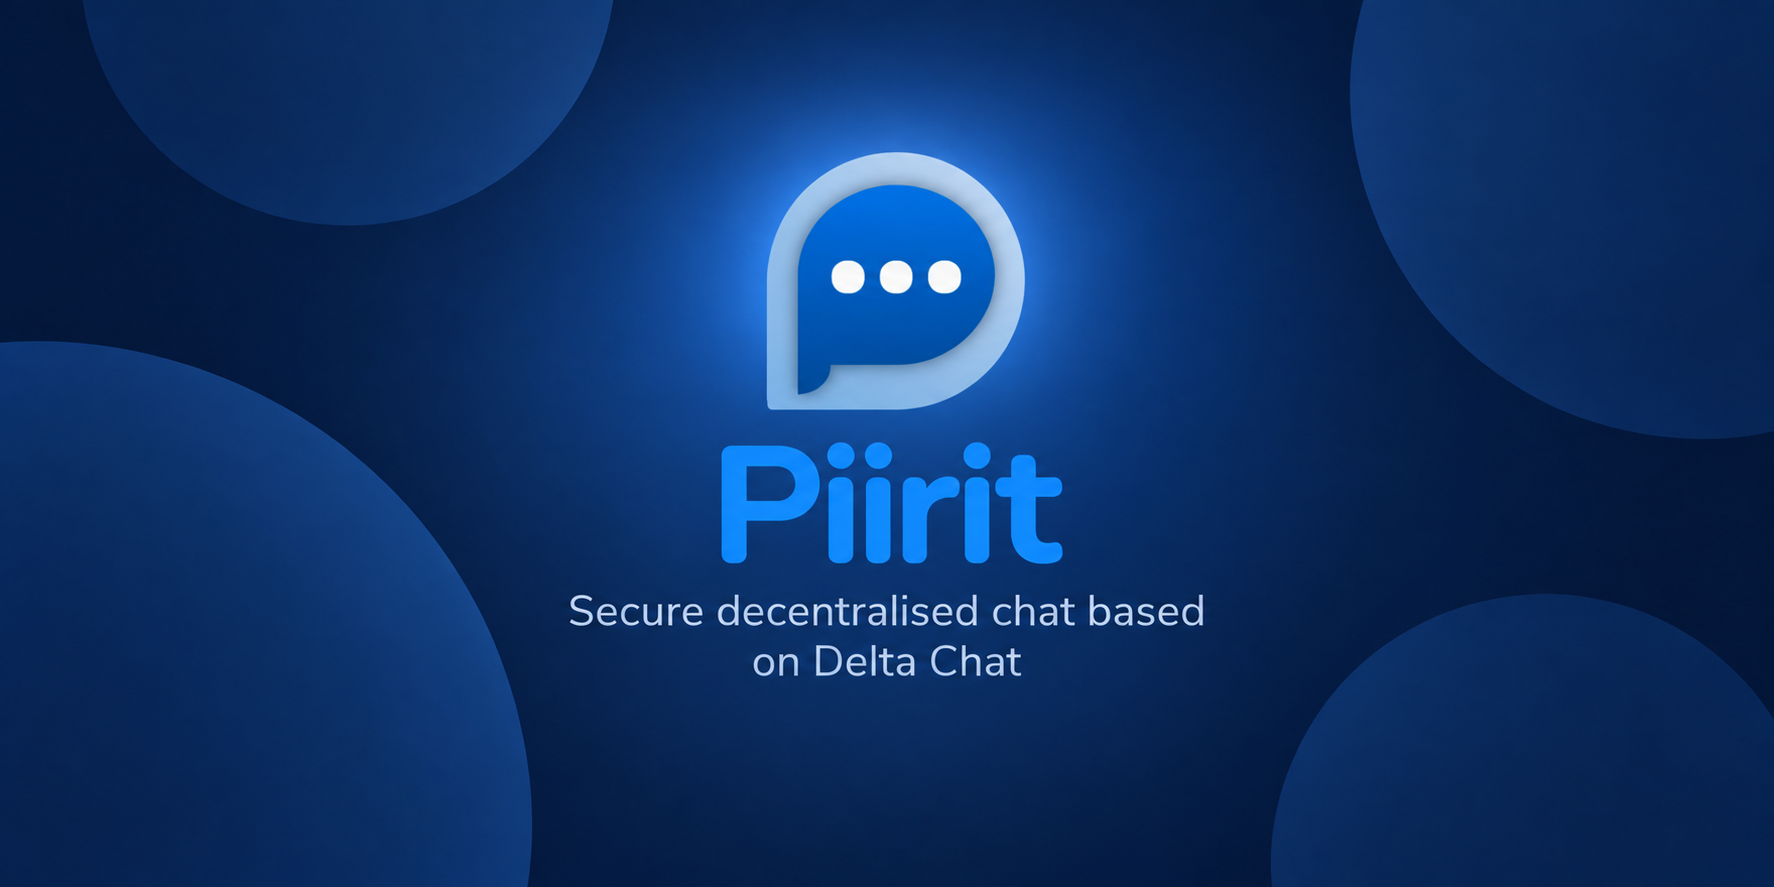
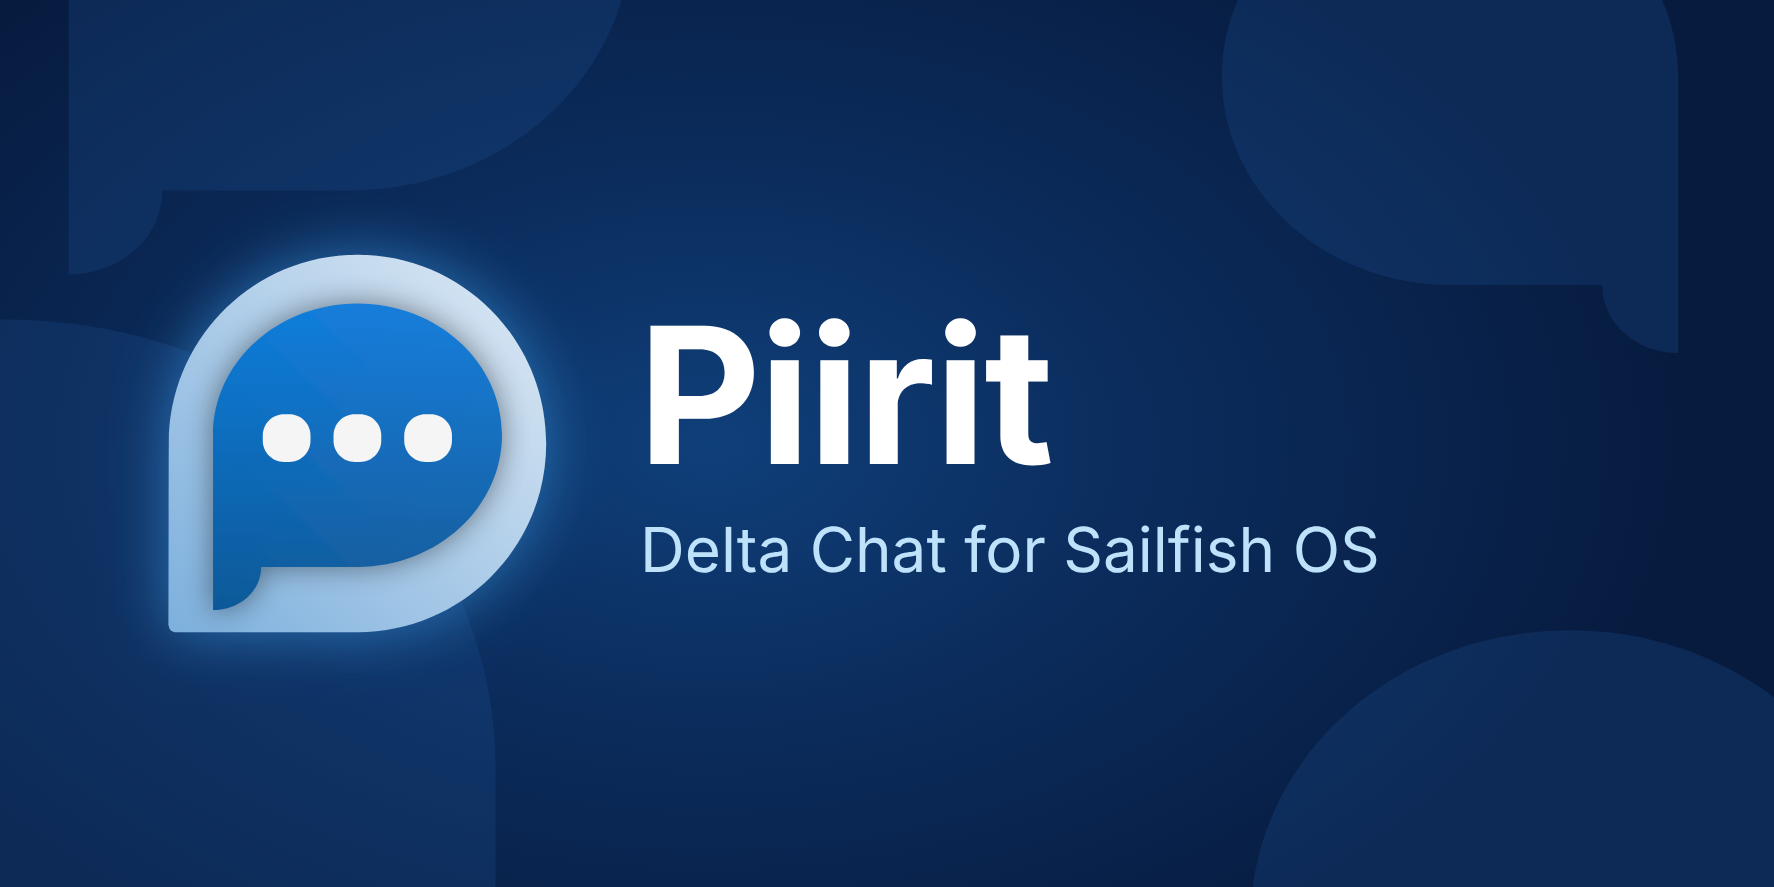
docs(store): cover image matches Lautta and Salama
Same layout and Inter type as the sibling apps' covers, with chat
bubbles in the background. Tagline is now "Delta Chat for Sailfish OS".

Claude-Session: https://claude.ai/code/session_01JwGt53G95vXX9xu2R4Tivf

diff --git a/README.md b/README.md
@@ -1,6 +1,6 @@
 # Piirit
 
-![Piirit - Secure decentralised chat based on Delta Chat.](store/cover.png)
+![Piirit - Delta Chat for Sailfish OS.](store/cover.png)
 
 [![Security Rating](https://sonarcloud.io/api/project_badges/measure?project=muhnschein_piirit&metric=security_rating)](https://sonarcloud.io/summary/new_code?id=muhnschein_piirit)[![Reliability Rating](https://sonarcloud.io/api/project_badges/measure?project=muhnschein_piirit&metric=reliability_rating)](https://sonarcloud.io/summary/new_code?id=muhnschein_piirit)[![Coverage](https://sonarcloud.io/api/project_badges/measure?project=muhnschein_piirit&metric=coverage)](https://sonarcloud.io/summary/new_code?id=muhnschein_piirit)[![Lines of Code](https://sonarcloud.io/api/project_badges/measure?project=muhnschein_piirit&metric=ncloc)](https://sonarcloud.io/summary/new_code?id=muhnschein_piirit)
 
